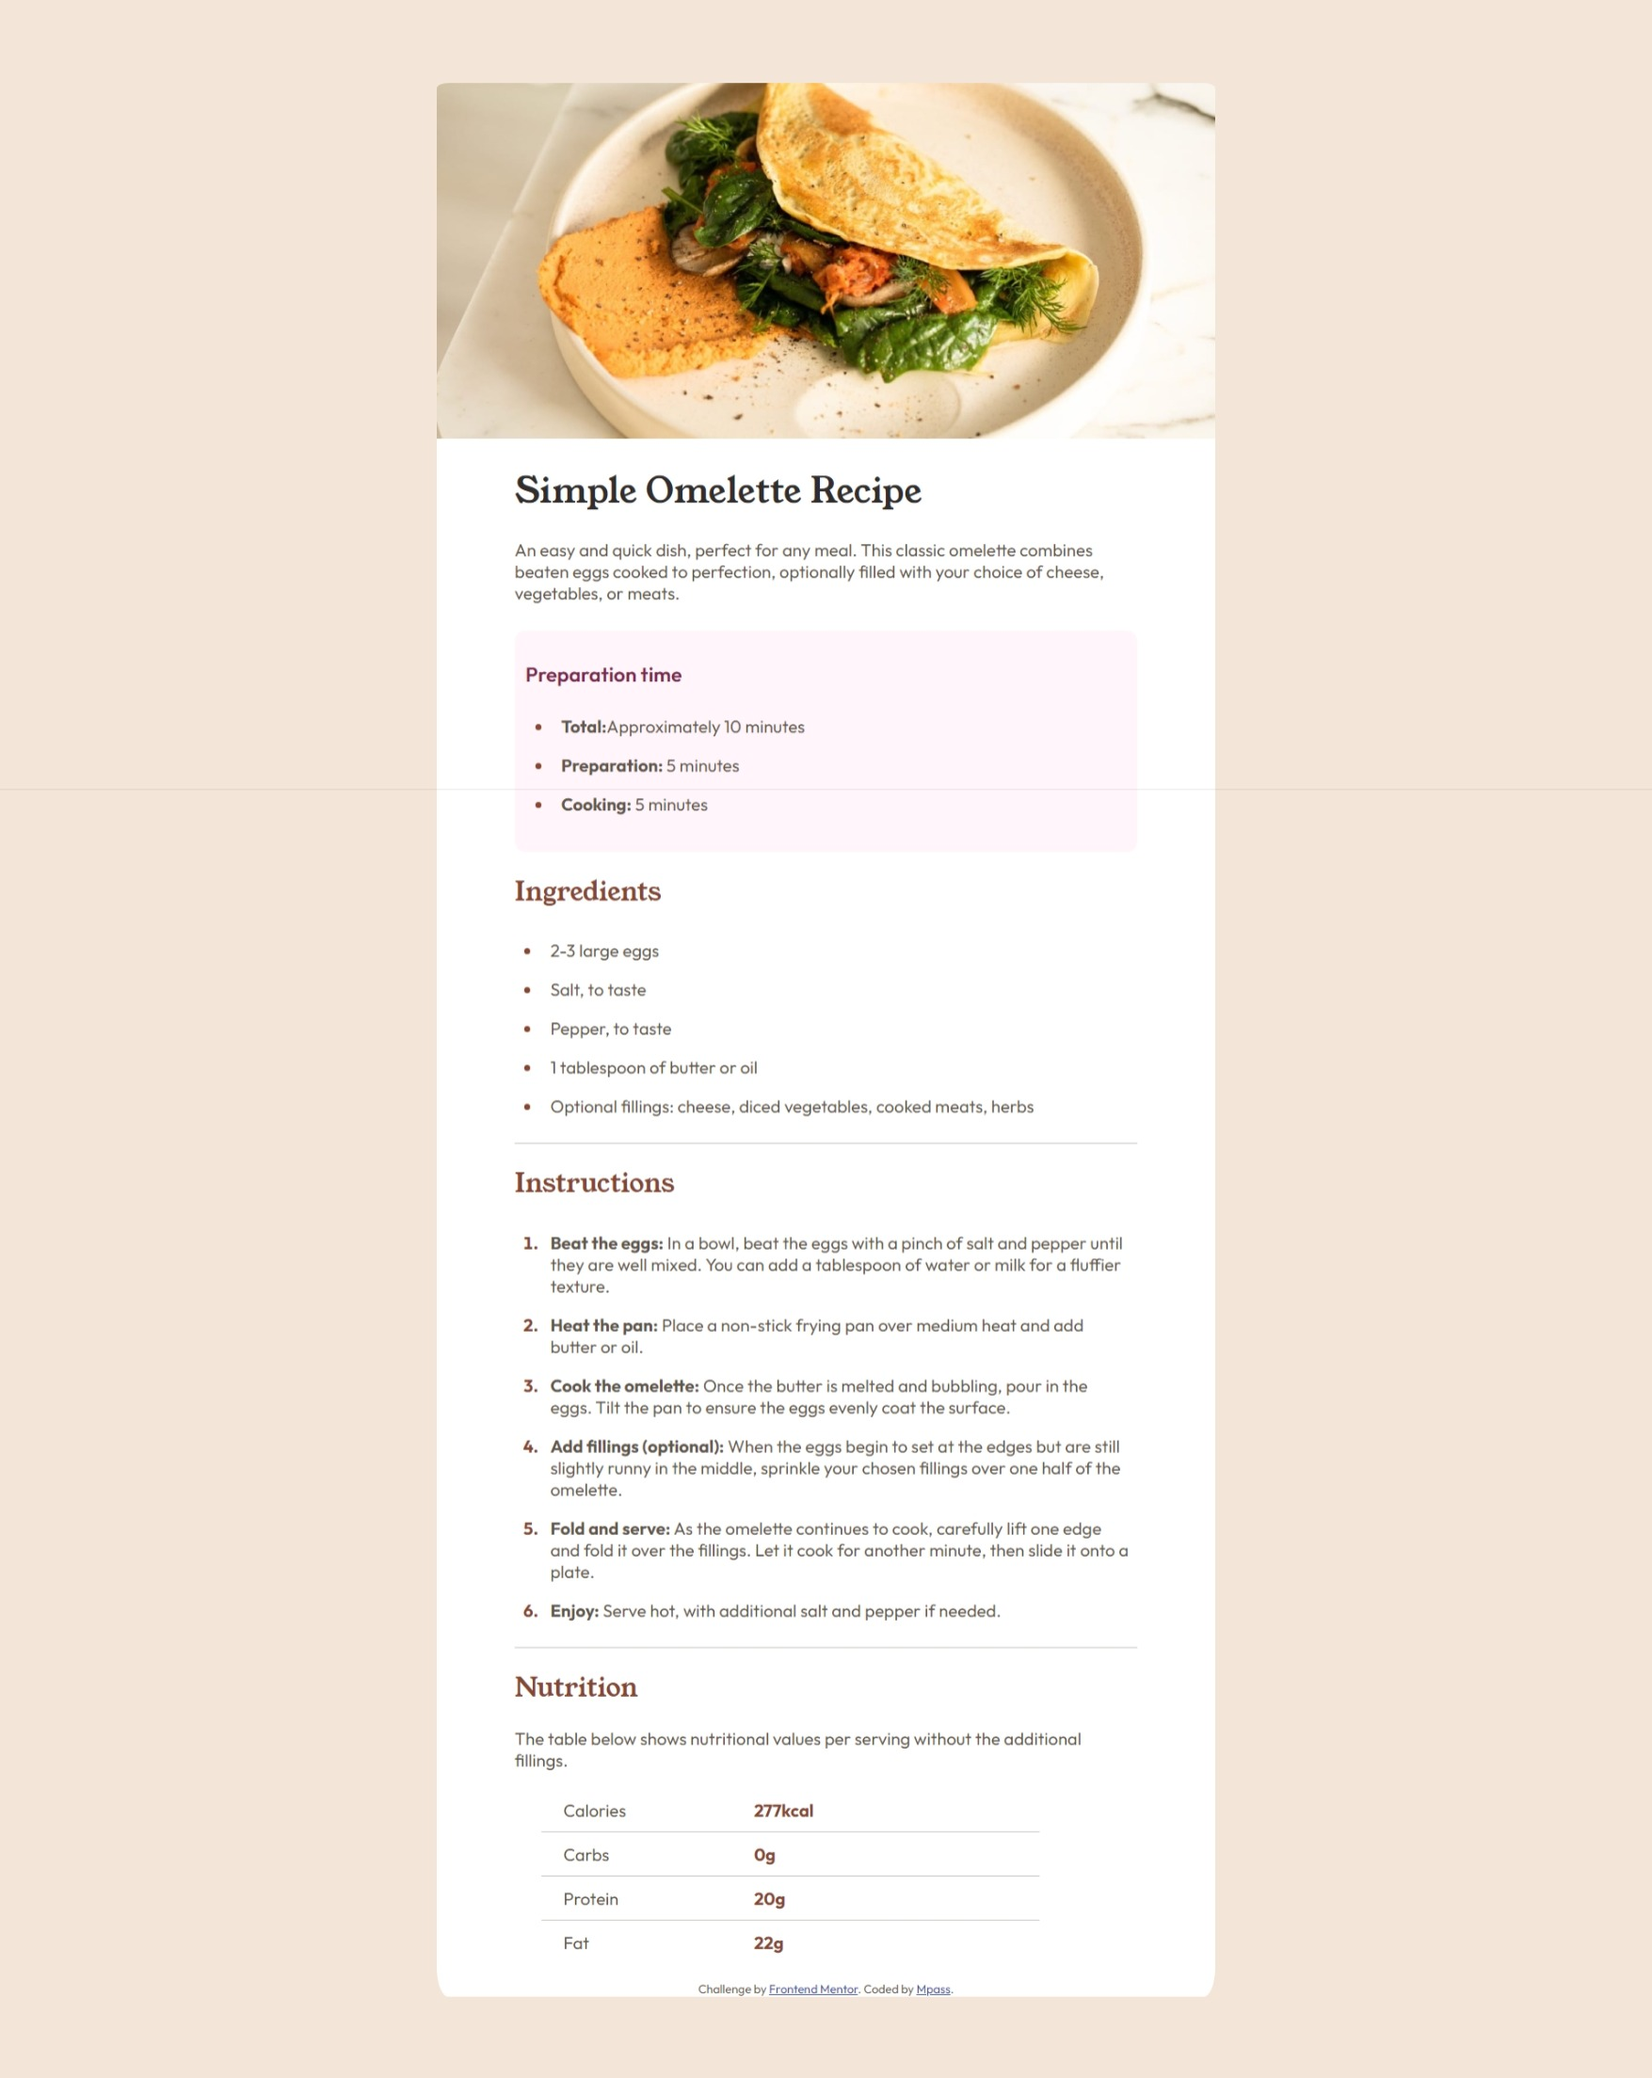
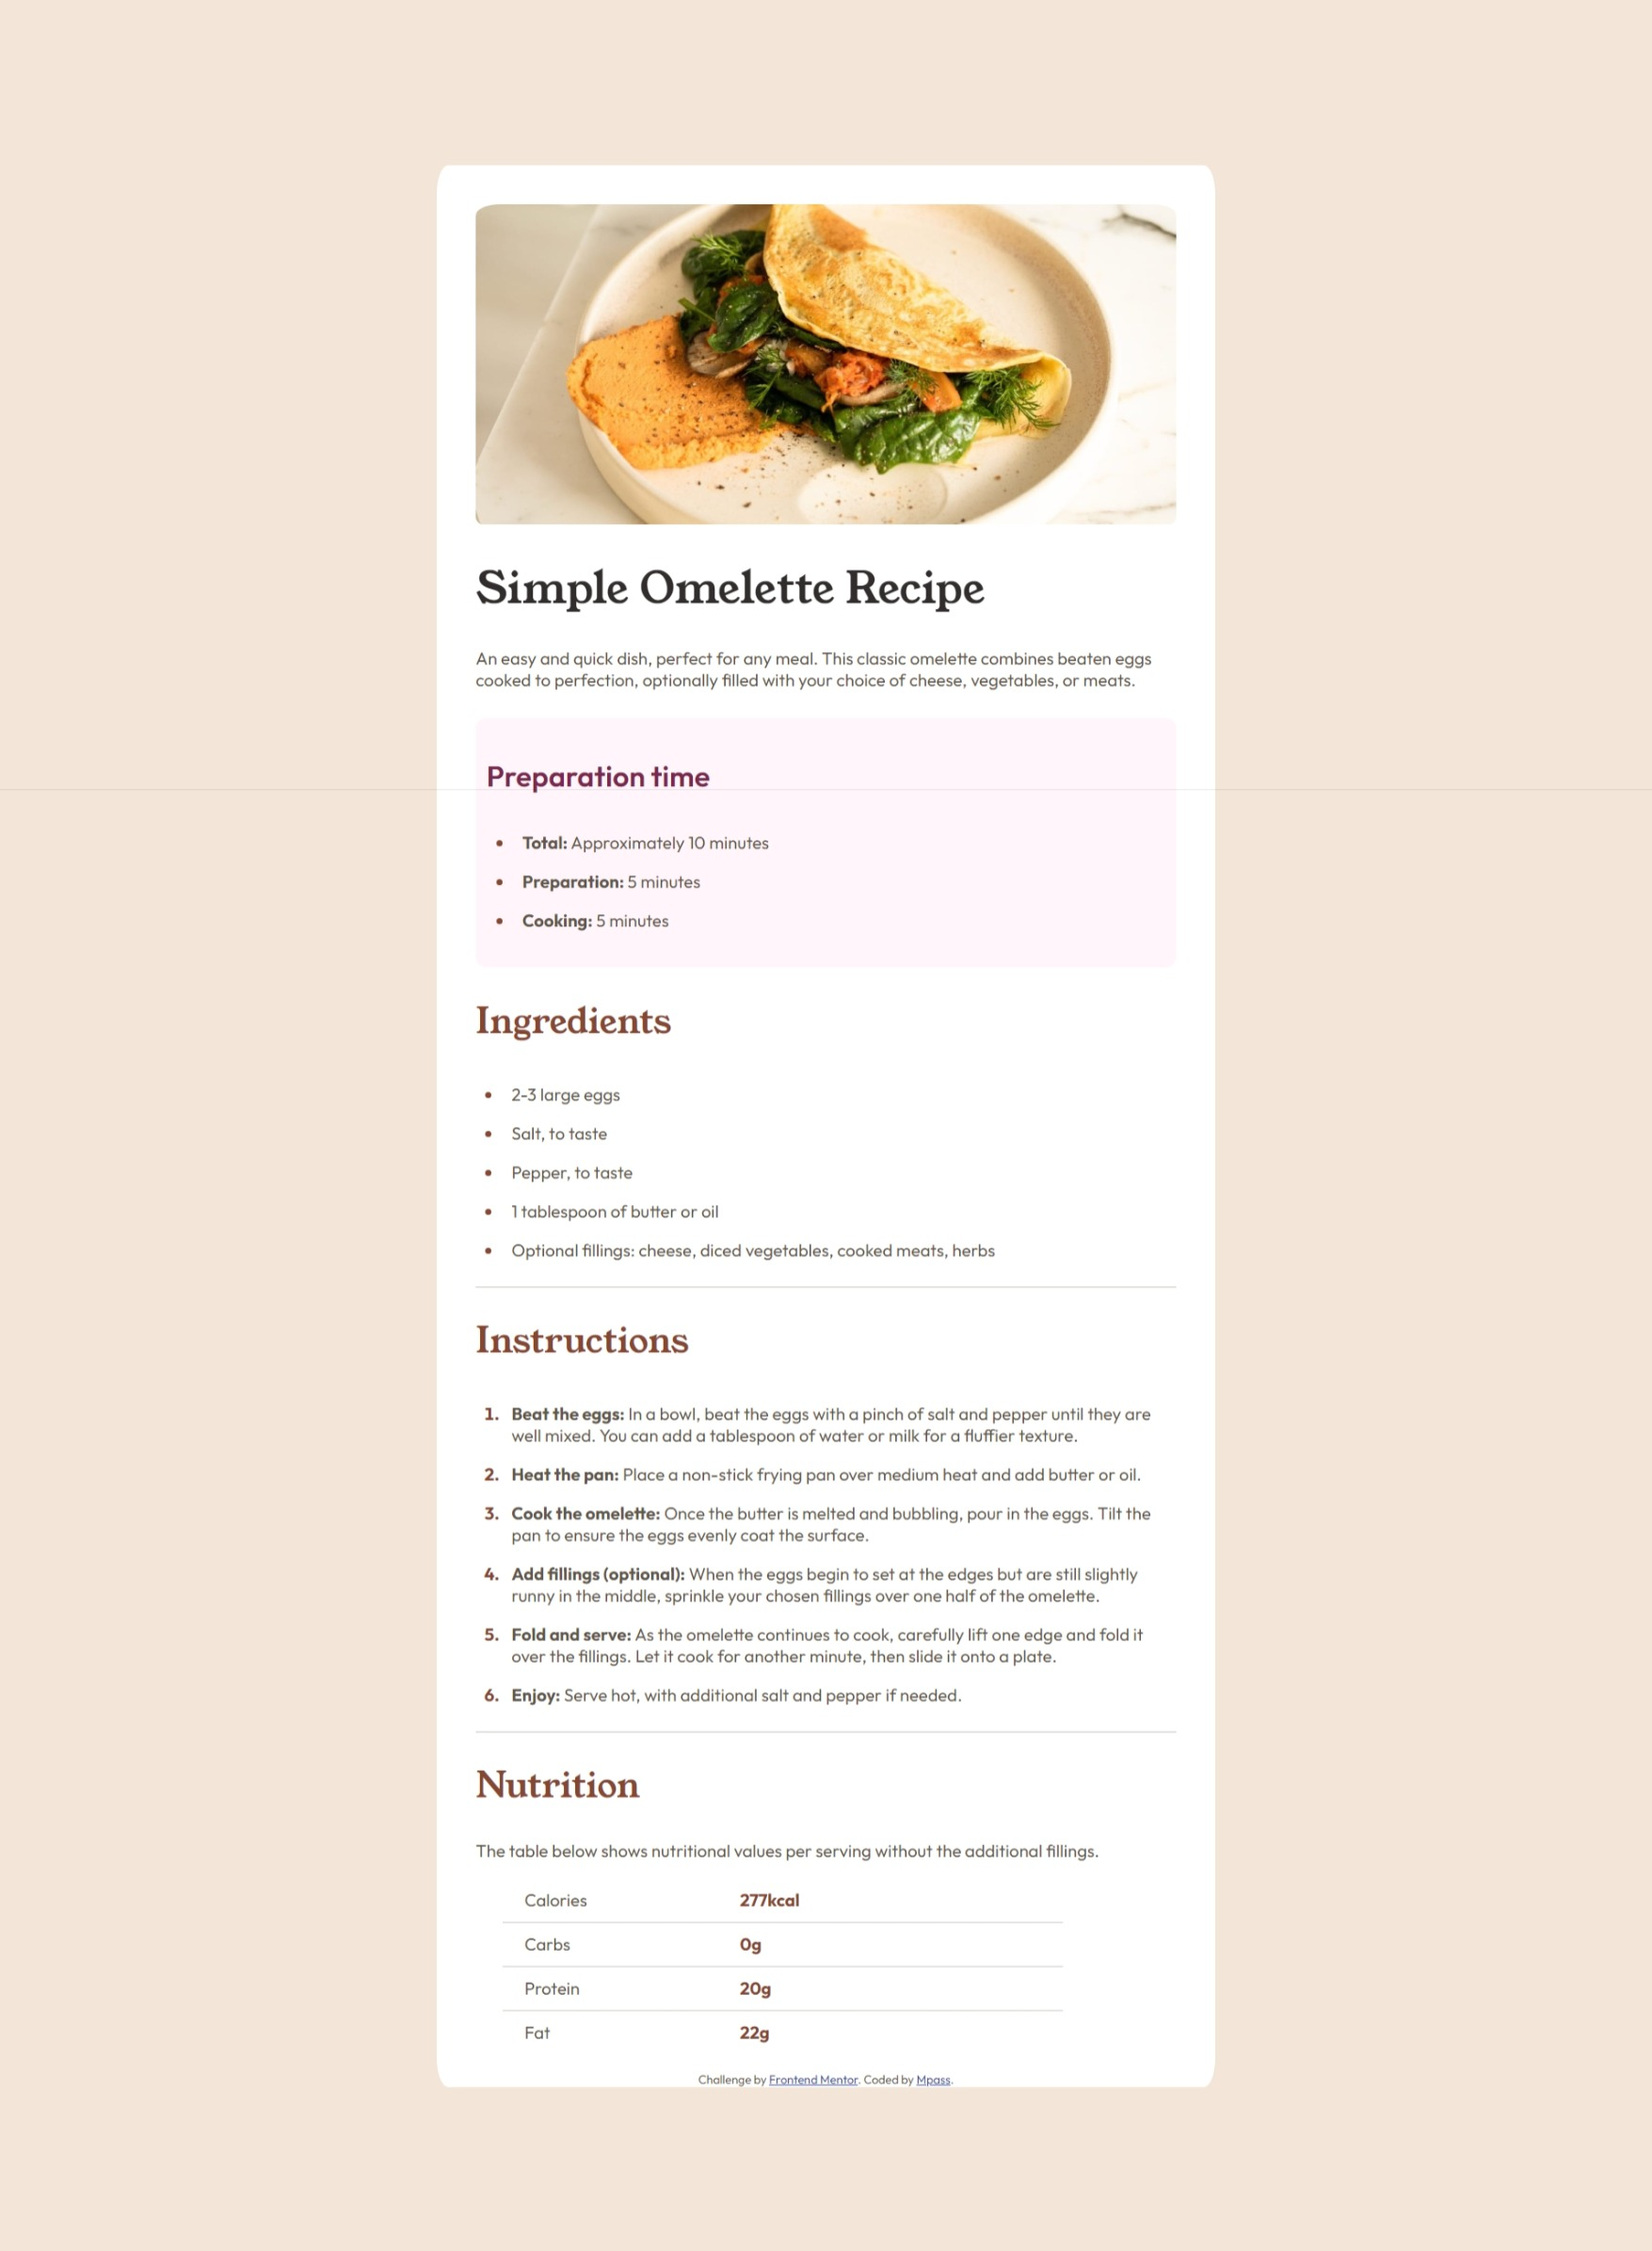
change some css

Changed region(s): [[0.2462, 0.0312, 0.7385, 0.9688], [0.7077, 0.1875, 0.7385, 0.2188]]

diff --git a/css/app.min.css b/css/app.min.css
@@ -1,1 +1,1 @@
-html{font-family:"Outfit",serif;box-sizing:border-box;font-size:16px;font-weight:400;color:#5f574e}html body{display:flex;justify-content:center;align-items:center;flex-direction:column;height:100%;width:100vw;background-color:#f3e6d8;margin:0px}html h1{font-family:"Young Serif",serif;font-size:2rem;font-weight:400;color:#302d2c}html h2{font-family:"Young Serif",serif;font-size:1.5rem;font-weight:400;color:#854632}html h3{font-size:1.17rem;font-weight:600;color:#7b284f}html b{font-weight:700;color:#5f574e}html figure{margin:0px;width:100%;overflow:hidden;border-radius:1.5% 1.5% 0 0}html img{width:100%;height:auto}html ul{padding-inline-start:25px}html ul li{padding:8px}html ul li::marker{color:#854632}html ol{padding-inline-start:25px}html ol li{padding:8px}html ol li::marker{color:#854632;font-weight:700}.recipe-box{background-color:#fff;display:flex;flex-direction:column;align-items:center;justify-content:center;width:100%;height:100%;max-width:720px;border-radius:1.5%}.recipe-box .recipe-content{width:80%;height:100%}.recipe-box .recipe-content .note{background-color:#fff5fa;padding:10px;border-radius:10px;margin-top:25px}.recipe-box .recipe-content .recipe-section{border-bottom:1px solid rgba(95,87,78,.368)}.recipe-box .recipe-content .recipe-section:last-child{border-bottom:none}.recipe-box .recipe-content .recipe-section .nut-box{list-style:none}.recipe-box .recipe-content .recipe-section .nut-box li.nut-box-item{border-bottom:1px solid rgba(95,87,78,.333);padding:10px;width:80%}.recipe-box .recipe-content .recipe-section .nut-box li.nut-box-item:last-child{border-bottom:none}.recipe-box .recipe-content .recipe-section .nut-box li.nut-box-item span{width:40%;display:inline-block;text-align:left;padding-left:10px}.recipe-box .recipe-content .recipe-section .nut-box li.nut-box-item b{color:#854632;width:50%;display:inline-block;text-align:left}@media only screen and (min-width: 1440px){.recipe-box{margin:5%}}/*# sourceMappingURL=app.min.css.map */
+html{font-family:"Outfit",serif;box-sizing:border-box;font-size:16px;font-weight:400;color:#5f574e}html body{display:flex;justify-content:center;align-items:center;flex-direction:column;height:100%;width:100vw;background-color:#f3e6d8;margin:0px}html h1{font-family:"Young Serif",serif;font-size:2.2rem;font-weight:400;color:#302d2c}html h2{font-family:"Young Serif",serif;font-size:1.8rem;font-weight:400;color:#854632}html h3{font-size:1.67rem;font-weight:600;color:#7b284f}html b{font-weight:700;color:#5f574e}html figure{margin:0px;width:100%;overflow:hidden}html img{width:100%;height:auto}html ul{padding-inline-start:25px}html ul li{padding:8px}html ul li::marker{color:#854632}html ol{padding-inline-start:25px}html ol li{padding:8px}html ol li::marker{color:#854632;font-weight:700}.recipe-box{background-color:#fff;display:flex;flex-direction:column;align-items:center;justify-content:center;width:100%;height:100%;max-width:720px;border-radius:1.5%}.recipe-box .recipe-content{width:80%;height:100%}.recipe-box .recipe-content .note{background-color:#fff5fa;padding:10px;border-radius:10px;margin-top:25px}.recipe-box .recipe-content .recipe-section{border-bottom:1px solid rgba(95,87,78,.368)}.recipe-box .recipe-content .recipe-section:last-child{border-bottom:none}.recipe-box .recipe-content .recipe-section .nut-box{list-style:none}.recipe-box .recipe-content .recipe-section .nut-box li.nut-box-item{border-bottom:1px solid rgba(95,87,78,.333);padding:10px;width:80%}.recipe-box .recipe-content .recipe-section .nut-box li.nut-box-item:last-child{border-bottom:none}.recipe-box .recipe-content .recipe-section .nut-box li.nut-box-item span{width:40%;display:inline-block;text-align:left;padding-left:10px}.recipe-box .recipe-content .recipe-section .nut-box li.nut-box-item b{color:#854632;width:50%;display:inline-block;text-align:left}@media only screen and (min-width: 1440px){html figure{width:90%;border-radius:3.5%;margin-top:5%}html h1{font-size:2.5rem}html h2{font-size:2rem}.recipe-box{margin:10%}.recipe-box .recipe-content{width:90%}}/*# sourceMappingURL=app.min.css.map */

diff --git a/scss/app.scss b/scss/app.scss
@@ -19,20 +19,20 @@ html {
 
     h1 {
         font-family: "Young Serif", serif;
-        font-size: 2rem;
+        font-size: 2.2rem;
         font-weight: 400;
         color: hsl(24, 5%, 18%);
     }
 
     h2 {
         font-family: "Young Serif", serif;
-        font-size: 1.5rem;
+        font-size: 1.8rem;
         font-weight: 400;
         color: hsl(14, 45%, 36%);
     }
 
     h3 {
-        font-size: 1.17rem;
+        font-size: 1.67rem;
         font-weight: 600;
         color: hsl(332, 51%, 32%);
     }
@@ -46,7 +46,6 @@ html {
         margin: 0px;
         width: 100%;
         overflow: hidden;
-        border-radius: 1.5% 1.5% 0 0;
     }
 
     img {
@@ -155,9 +154,29 @@ html {
 @media only screen and (min-width:1440px) {
 
     //PC
+    html {
+    figure {
+        width: 90%;
+        border-radius: 3.5% ;
+        margin-top: 5%;
+    }
+    h1 {
+        font-size: 2.5rem; 
+    }
+
+    h2 {
+        font-size: 2rem;
+    }
+    }
+
+
+
     .recipe-box {
-        margin: 5%;
+        margin: 10%;
 
-
+        .recipe-content {
+            width: 90%;
+        
+        }
     }
 }

diff --git a/dest/app.css b/dest/app.css
@@ -18,18 +18,18 @@ html body {
 html h1 {
   color: hsl(24, 5%, 18%);
   font-family: "Young Serif", serif;
-  font-size: 2rem;
+  font-size: 2.2rem;
   font-weight: 400;
 }
 html h2 {
   color: hsl(14, 45%, 36%);
   font-family: "Young Serif", serif;
-  font-size: 1.5rem;
+  font-size: 1.8rem;
   font-weight: 400;
 }
 html h3 {
   color: hsl(332, 51%, 32%);
-  font-size: 1.17rem;
+  font-size: 1.67rem;
   font-weight: 600;
 }
 html b {
@@ -40,7 +40,6 @@ html figure {
   overflow: hidden;
   width: 100%;
   margin: 0px;
-  border-radius: 1.5% 1.5% 0 0;
 }
 html img {
   width: 100%;
@@ -118,8 +117,22 @@ html ol li::marker {
 }
 
 @media only screen and (min-width: 1440px) {
+  html figure {
+    width: 90%;
+    border-radius: 3.5%;
+    margin-top: 5%;
+  }
+  html h1 {
+    font-size: 2.5rem;
+  }
+  html h2 {
+    font-size: 2rem;
+  }
   .recipe-box {
-    margin: 5%;
+    margin: 10%;
+  }
+  .recipe-box .recipe-content {
+    width: 90%;
   }
 }
 /*# sourceMappingURL=app.css.map */

diff --git a/css/app.css b/css/app.css
@@ -17,18 +17,18 @@ html body {
 }
 html h1 {
   font-family: "Young Serif", serif;
-  font-size: 2rem;
+  font-size: 2.2rem;
   font-weight: 400;
   color: hsl(24, 5%, 18%);
 }
 html h2 {
   font-family: "Young Serif", serif;
-  font-size: 1.5rem;
+  font-size: 1.8rem;
   font-weight: 400;
   color: hsl(14, 45%, 36%);
 }
 html h3 {
-  font-size: 1.17rem;
+  font-size: 1.67rem;
   font-weight: 600;
   color: hsl(332, 51%, 32%);
 }
@@ -40,7 +40,6 @@ html figure {
   margin: 0px;
   width: 100%;
   overflow: hidden;
-  border-radius: 1.5% 1.5% 0 0;
 }
 html img {
   width: 100%;
@@ -118,7 +117,21 @@ html ol li::marker {
 }
 
 @media only screen and (min-width: 1440px) {
+  html figure {
+    width: 90%;
+    border-radius: 3.5%;
+    margin-top: 5%;
+  }
+  html h1 {
+    font-size: 2.5rem;
+  }
+  html h2 {
+    font-size: 2rem;
+  }
   .recipe-box {
-    margin: 5%;
+    margin: 10%;
+  }
+  .recipe-box .recipe-content {
+    width: 90%;
   }
 }/*# sourceMappingURL=app.css.map */

diff --git a/index.html b/index.html
@@ -92,4 +92,5 @@
     </div>
   </div>
 </body>
+
 </html>
